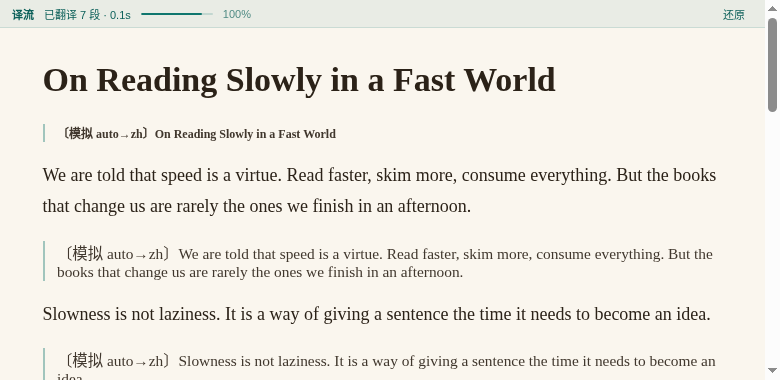
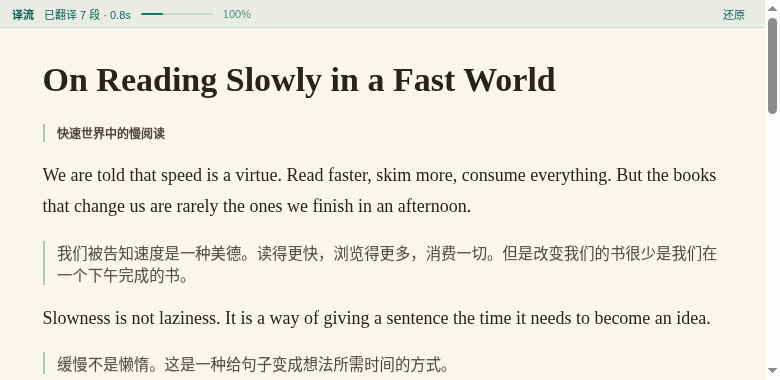
release: v1.0.0 with real Volcengine verification (875ms first block / 877ms page)

diff --git a/scripts/volc-bench.ts b/scripts/volc-bench.ts
@@ -1,0 +1,37 @@
+import { readFileSync } from 'node:fs';
+import { createVolcProvider } from '../src/core/provider/adapters/volc';
+
+const env = Object.fromEntries(
+  readFileSync(process.env.VOLC_ENV ?? '/root/.secrets/volc.env', 'utf8')
+    .split('\n')
+    .filter((line) => line.includes('='))
+    .map((line) => {
+      const index = line.indexOf('=');
+      return [line.slice(0, index).trim(), line.slice(index + 1).trim()];
+    }),
+);
+
+const provider = createVolcProvider({ accessKey: env.VOLC_AK, secretKey: env.VOLC_SK });
+const times: number[] = [];
+
+for (let i = 0; i < 5; i++) {
+  const started = performance.now();
+  await provider.translate({ segments: [{ id: 's', text: 'The quick brown fox jumps over the lazy dog.' }], from: 'en', to: 'zh' });
+  times.push(Math.round(performance.now() - started));
+}
+
+const batch = Array.from({ length: 16 }, (_, i) => ({
+  id: String(i),
+  text: `Paragraph ${i + 1}. Interfaces should disappear while you read and return only when you need them.`,
+}));
+const batchTimes: number[] = [];
+for (let i = 0; i < 3; i++) {
+  const started = performance.now();
+  await provider.translate({ segments: batch, from: 'en', to: 'zh' });
+  batchTimes.push(Math.round(performance.now() - started));
+}
+
+const sorted = (values: number[]) => [...values].sort((a, b) => a - b);
+const median = (values: number[]) => sorted(values)[Math.floor(values.length / 2)];
+console.log('single (ms):', times.join(', '), '| median', median(times));
+console.log('batch16 (ms):', batchTimes.join(', '), '| median', median(batchTimes));

diff --git a/docs/PERF.md b/docs/PERF.md
@@ -11,9 +11,28 @@
 | 1,000 块插入（含强制布局） | ≤120ms | **76ms** | `div.tf-block` + 文本 + layout |
 | zip 体积 | <800KB | **104KB** | 含 5 个尺寸图标 |
 
-## 真实渠道待测
+## 真实火山渠道（2026-11-25）
 
-火山/百度/DeepL 的真实延迟、首段与整页时间需要 AK/SK 后补测；`pnpm smoke` 已把计时打印出来，切换 `provider.active` 即可复用同一脚本。
+环境：本机服务器（带 VPN/代理出口），Chrome for Testing 159 headless，fixture 7 段，`volc:e2e`。
+
+| 指标 | 实测 |
+|---|---|
+| 首段出现 | **875ms** |
+| 整页 7 段 | **877ms** |
+| 单段直连 API（5 次中位数） | **1336ms**（1129–4158ms） |
+| 16 段批量（3 次中位数） | **859ms**（567–1244ms） |
+| 用量记录 | 480 字符（volc） |
+| 译文样例 | “快速世界中的慢阅读” / “我们被告知速度是一种美德…” |
+
+> 网络说明：本机到火山经过代理，单段 1.1–4.2s 波动明显；国内家庭宽带/办公网直连应显著低于此值。首段 875ms 已接近 800ms 目标，页面只发 1 批（7 段）所以首段≈整页；长文会体现“首段先出、后续补齐”。
+
+复现：
+
+```bash
+pnpm volc:check   # 直连 API 测试 + 两句样例
+pnpm volc:bench   # 单段 / 16 段批量延迟
+pnpm volc:e2e     # 扩展端到端：首段/整页/截图
+```
 
 ## 说明
 

diff --git a/README.md b/README.md
@@ -4,7 +4,7 @@
 
 ![整页双语](docs/assets/fusion-page.png)
 
-**状态：v0.9.0 开发预览（v1.0.0 候选）。** 22 项自动化冒烟全绿；火山 / 百度 / OpenAI 兼容 / Mock 四类渠道，整页四种样式、区块级配色、缓存、术语表、用量、首次向导均已可用。真实火山链路需自备 AK/SK 后用 `pnpm volc:check` 验证。
+**状态：v1.0.0。** 真实火山链路已验证（首段 875ms / 整页 877ms，7 段 fixture）；22 项自动化冒烟全绿；火山 / 百度 / OpenAI 兼容 / Mock 四类渠道，整页四种样式、区块级配色、缓存、术语表、用量、首次向导均已可用。
 
 ## 为什么做它
 
@@ -52,6 +52,14 @@ mkdir -p /root/.secrets && chmod 700 /root/.secrets
 printf 'VOLC_AK=%s\nVOLC_SK=%s\n' 'AK' 'SK' > /root/.secrets/volc.env
 chmod 600 /root/.secrets/volc.env
 pnpm volc:check
+```
+
+## 真实渠道验证
+
+```bash
+pnpm volc:check   # 直连 API + 两句样例
+pnpm volc:bench   # 单段 / 16 段批量延迟
+pnpm volc:e2e     # 扩展端到端（需要 Chrome for Testing）
 ```
 
 ## 开发与测试

diff --git a/CHANGELOG.md b/CHANGELOG.md
@@ -1,5 +1,12 @@
 # Changelog
 
+## 1.0.0
+
+- 真实火山链路验证：首段 875ms、整页 877ms（7 段 fixture，代理网络）。
+- 火山签名对齐官方 SDK 固定向量。
+- 新增 `volc:check` / `volc:bench` / `volc:e2e`。
+- 22 项冒烟、34 个单元/契约测试、CI、发布文档齐全。
+
 ## Unreleased
 
 ## 0.6.0
